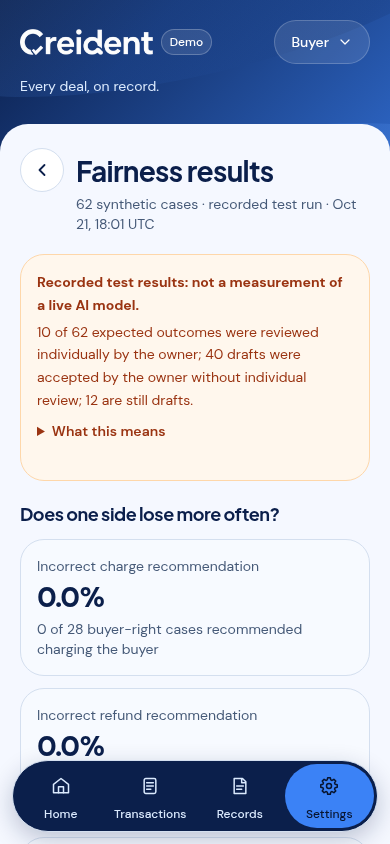
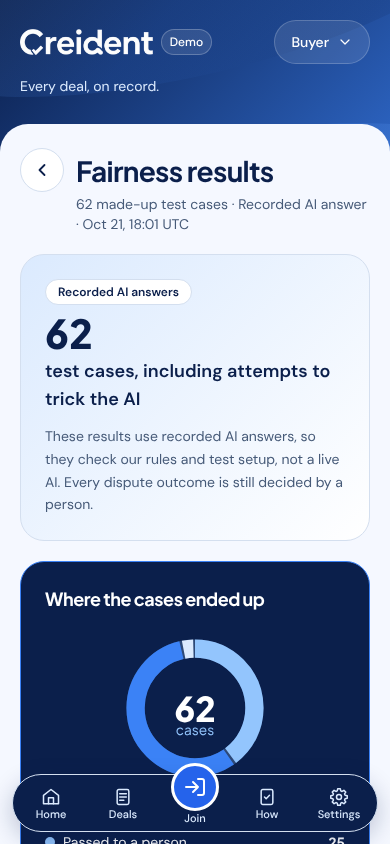
Refresh README screenshots from the frozen UI
Re-captured the 11 images in the README Screens table (fresh demo data, simulated PayPal). Same file names. Oversight appendix images unchanged. Docs only, no dependency.

Claude-Session: https://claude.ai/code/session_0166tJEPa1jLHSnUbmFLosPn

diff --git a/docs/HANDOFF.md b/docs/HANDOFF.md
@@ -415,3 +415,7 @@ Entries up to 2026-10-30 (C26–C30, brand kit, logo studies, earlier UI work) a
 - Added a "Review desk" item (shield icon, same as the mobile dock) to the desktop sidebar for the reviewer role only. Active state on `/reviewer/oversight`.
 - Checked: tsc, 710 vitest tests, build, Playwright (reviewer sees the link and it opens the desk with the item highlighted; seller and buyer sidebars unchanged; 0 console errors).
 - Pending: none. UI stays frozen otherwise.
+
+## 2026-10-31 — README screenshots refreshed
+- Re-captured the 11 images linked in the README "Screens" table (home-buyer, home-dark, deals, new-phone, deal-completed, evidence-damaged, dispute-review, review-dark, decision-receipt, audit-detail, fairness) from the frozen UI (main at e59c05a): fresh public-demo database, simulated PayPal, recorded AI. Same filenames, so README links are unchanged. 0 console errors during capture.
+- Not refreshed: the four `oversight-*` images in the appendix. They were taken without an AG Studio licence key (trial watermark), and the README already says so. Replace them with captures of the licensed live Review desk if wanted.
